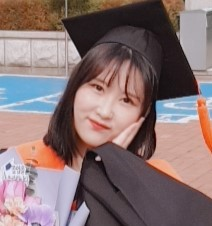
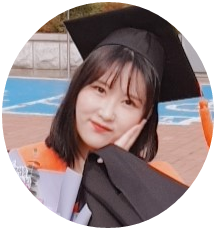
Update img files

diff --git a/about.md b/about.md
@@ -3,33 +3,33 @@ layout: page
 title: About
 ---
 
-<img src="https://github.com/joniekwon/joniekwon.github.io/blob/main/img/self.jpg?raw=true" width="auto" height="auto" style="border-radius:50%" align="left">
+![](/img/self.jpg){: .left}
 
 <h1>JeongIn Kwon</h1>
 
-##학력
+## 학력
 
 2017.08. ~ 2020.02. 국립한밭대학교 정보통신대학원 멀티미디어공학과 석사
 2009.03. ~ 2014.02. 국립한밭대학교 산업경영공학과
 
-##관심분야
+## 관심분야
 
 백엔드, 머신러닝, 딥러닝, 컴퓨터 비전, 빅데이터 분석
 
 
-##스킬
+## 스킬
 
 Python, R, SQL, C++, Java, HTML/CSS etc.
 ![SKILLS](/img/skills.png)
 _경험했던 기술들_
 
-##연구경험
+## 연구경험
 
 2017.09. ~ 2018.01. 원거리 무인비행체 EO/IR 영상분석 및 탐지/추적 알고리즘 연구
 2018.03. ~ 2018.11. 소형 표적 추적을 위한 알고리즘 성능 개선
 2019.04. ~ 2019.11. 환경 변화에 강인한 실시간 무인비행체 탐지/추적 알고리즘 연구
 
-##자격증
+## 자격증
 
 |  취득일  |     자격증     |     발급기관     |
 |:-------:|:-------------:|:---------------:|
